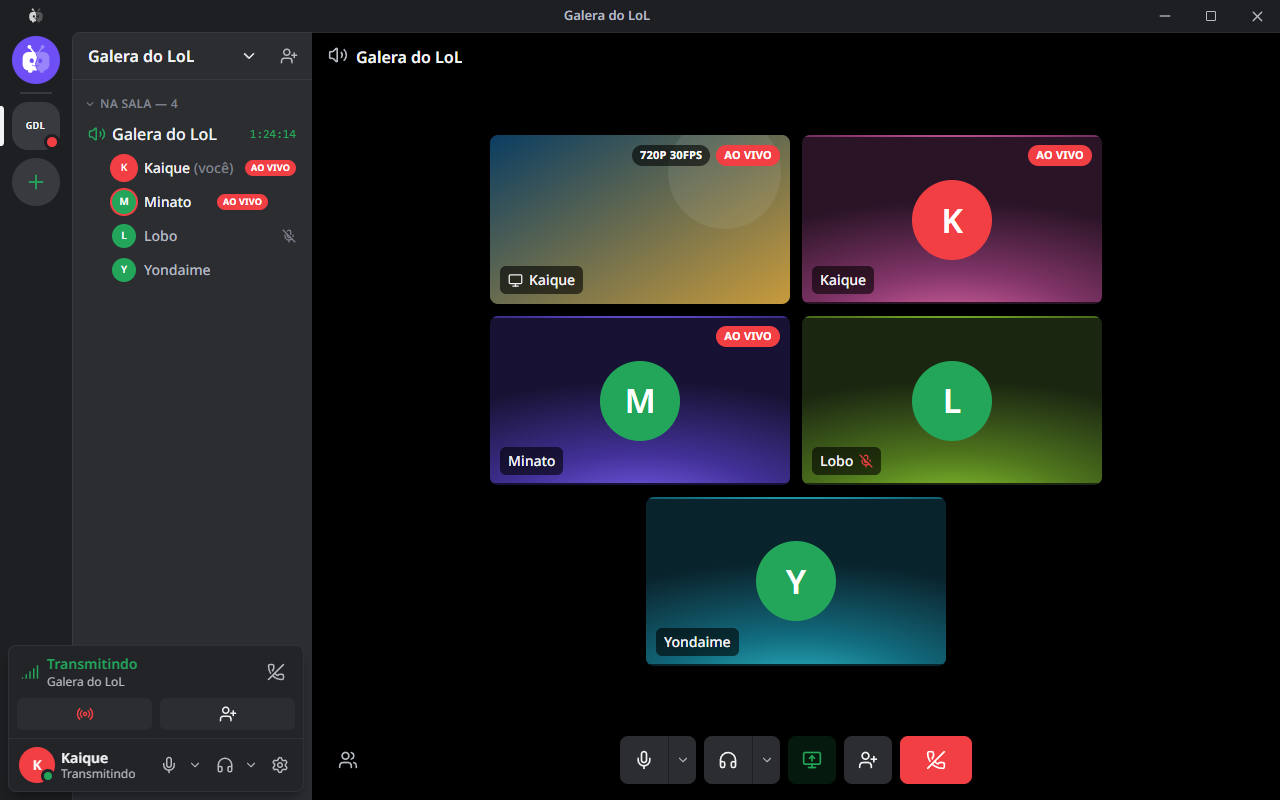
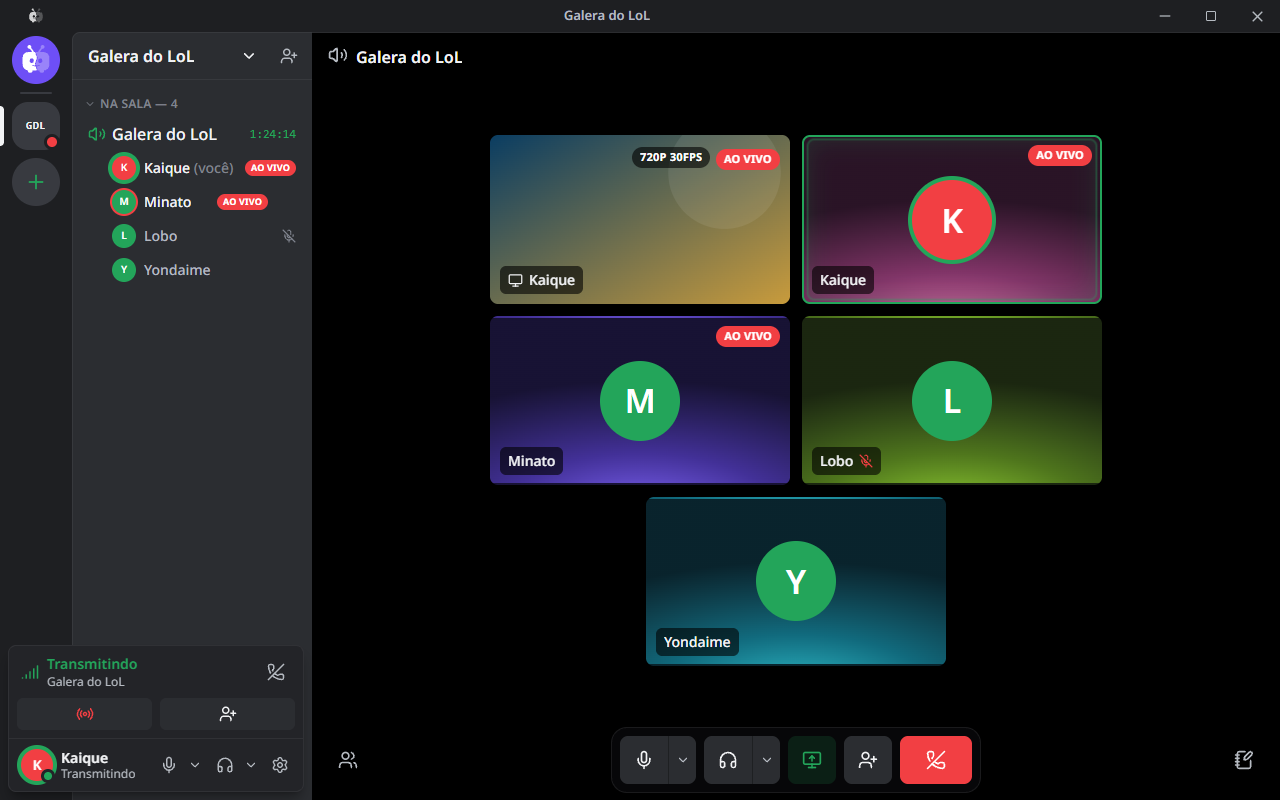
docs(docs): atualiza o README e as capturas para a versão 0.16

diff --git a/README.md b/README.md
@@ -35,7 +35,7 @@
 </p>
 
 > [!NOTE]
-> **Versão 0.11: o Fliperama.** Transmitindo um jogo com vários controles (Bomberman, jogos de luta, party games), abra o **Fliperama** no menu da sua live: até 3 amigos da call entram como P2, P3 e P4 e jogam pela rede, com controle de Xbox, com o teclado (que vira controle) ou com o mouse (que vira o analógico direito). Para jogos só de teclado e mouse, dê o **controle total** a um jogador por vez, com corte em Ctrl+Alt+F12. Também nesta versão: uma queda rápida da conexão não tira mais ninguém da sala nem derruba a voz, quem sai e volta não aparece duas vezes, e um código de sala que não existe avisa "Código inválido" em vez de criar uma sala vazia. **Na 0.11.1:** o botão do jogador chega ao jogo do host com menos de 1 ms de atraso no app (era 9 ms), um selo FLIPERAMA mostra para todos que o fliperama está aberto, e a live termina sozinha quando você fecha o programa que estava transmitindo. **Na 0.12:** dá para entrar no fliperama também pelos "..." da live de quem hospeda, quem entra é sempre o P2 em diante (o P1 é quem hospeda) e a live mostra as teclas que viram cada botão do controle; o tempo da sala conta de quando ela deixou de estar vazia (sair e voltar não zera mais); quem vê a sala do servidor de fora vê quem está mudo ou silenciado; sair da sala encerra a sua live, e o vídeo dela acompanha o quadro na faixa de participantes; o app passa a usar a Noto Sans, com os tamanhos e pesos de texto do Discord; e, com o app aberto, a versão nova aparece também quando você volta para a janela. **Na 0.13:** de fora de uma sala do servidor, você vê todo mundo que está nela, como no Discord, inclusive quem entrou só com o código, com o mudo e o silenciado de cada um. **Na 0.14:** a sala passa a distribuir o vídeo: quem assiste repassa uma parte da live para os outros, e quem transmite não precisa mandar uma cópia inteira para cada um. Quem está com a internet fraca recebe 720p30 sem atrapalhar os outros. No Fliperama, controles de PlayStation e Switch funcionam, cada jogador vê se o controle dele foi achado, e quem hospeda sem controle continua sendo o P1 no jogo (o amigo é o P2 de verdade). Também: a grade da sala cabe inteira na janela, mesmo larga e baixa. **Na 0.15:** um botão no canto da barra deixa a grade só com as lives e põe quem não transmite numa faixa embaixo, e a live que travava (a imagem parava, o som continuava, e só voltava saindo e entrando de novo) agora se recupera sozinha em cerca de 1 segundo. Achou um problema? [Abra uma issue](https://github.com/Kaique292/squadview/issues).
+> **Versão 0.11: o Fliperama.** Transmitindo um jogo com vários controles (Bomberman, jogos de luta, party games), abra o **Fliperama** no menu da sua live: até 3 amigos da call entram como P2, P3 e P4 e jogam pela rede, com controle de Xbox, com o teclado (que vira controle) ou com o mouse (que vira o analógico direito). Para jogos só de teclado e mouse, dê o **controle total** a um jogador por vez, com corte em Ctrl+Alt+F12. Também nesta versão: uma queda rápida da conexão não tira mais ninguém da sala nem derruba a voz, quem sai e volta não aparece duas vezes, e um código de sala que não existe avisa "Código inválido" em vez de criar uma sala vazia. **Na 0.11.1:** o botão do jogador chega ao jogo do host com menos de 1 ms de atraso no app (era 9 ms), um selo FLIPERAMA mostra para todos que o fliperama está aberto, e a live termina sozinha quando você fecha o programa que estava transmitindo. **Na 0.12:** dá para entrar no fliperama também pelos "..." da live de quem hospeda, quem entra é sempre o P2 em diante (o P1 é quem hospeda) e a live mostra as teclas que viram cada botão do controle; o tempo da sala conta de quando ela deixou de estar vazia (sair e voltar não zera mais); quem vê a sala do servidor de fora vê quem está mudo ou silenciado; sair da sala encerra a sua live, e o vídeo dela acompanha o quadro na faixa de participantes; o app passa a usar a Noto Sans, com os tamanhos e pesos de texto do Discord; e, com o app aberto, a versão nova aparece também quando você volta para a janela. **Na 0.13:** de fora de uma sala do servidor, você vê todo mundo que está nela, como no Discord, inclusive quem entrou só com o código, com o mudo e o silenciado de cada um. **Na 0.14:** a sala passa a distribuir o vídeo: quem assiste repassa uma parte da live para os outros, e quem transmite não precisa mandar uma cópia inteira para cada um. Quem está com a internet fraca recebe 720p30 sem atrapalhar os outros. No Fliperama, controles de PlayStation e Switch funcionam, cada jogador vê se o controle dele foi achado, e quem hospeda sem controle continua sendo o P1 no jogo (o amigo é o P2 de verdade). Também: a grade da sala cabe inteira na janela, mesmo larga e baixa. **Na 0.15:** um botão no canto da barra deixa a grade só com as lives e põe quem não transmite numa faixa embaixo, e a live que travava (a imagem parava, o som continuava, e só voltava saindo e entrando de novo) agora se recupera sozinha em cerca de 1 segundo. **Na 0.16:** a sala ganha vida: a live em foco ilumina a sala com as cores dela, quem fala tem o quadro pulsando, a entrada na sala mostra a conexão com cada amigo, e ao ficar ao vivo você vê quem começou a assistir. E chega o **modo reunião**: o que você fala vira texto numa aba ao lado da sala, transcrito no seu PC. Achou um problema? [Abra uma issue](https://github.com/Kaique292/squadview/issues).
 
 ## ✨ O que ele faz
 
@@ -48,7 +48,9 @@
 - **A sua live na sala**, como no Discord: transmitindo, a sua tela vira um quadro da sala, com a qualidade e o AO VIVO no canto, desenhados por cima da imagem sem esconder nada dela. Clique para pôr em foco, dois cliques para a tela cheia e o botão direito para parar, trocar o que transmite, mudar a qualidade ou ligar e desligar o som, sem sair do ar. Fechou o programa que estava transmitindo? A live termina sozinha. Os detalhes mostram o último minuto em gráficos (fps, bitrate, latência e encode) e o uso da GPU e da CPU em barras.
 - **Assista várias lives ao mesmo tempo**, como no Discord: cada live que você assiste vira um quadro da sala, igual ao da sua, e dá para assistir até 4 de uma vez. Quer só as lives na tela? O botão de pessoas, no canto da barra, deixa a grade só com elas e põe quem não transmite numa faixa embaixo. Clique para pôr em foco, dois cliques para a tela cheia e o botão direito (ou os "...") para o volume de até 200%, silenciar, parar de assistir e os detalhes (fps, bitrate, latência e ping em gráficos). No topo da sala aparecem quem transmite e as fotos de quem está assistindo; passe o mouse para ver a lista. Quer jogar enquanto assiste? Mande a live para uma **janelinha por cima de tudo** (picture in picture), com silenciar, volume e voltar para o app ao passar o mouse.
 - **Fliperama: o seu jogo local, online.** Transmitindo um jogo de vários controles, abra o Fliperama no menu da sua live e até 3 amigos da call entram como **P2, P3 e P4** pelo botão direito no seu nome ou pelos "..." da sua live. Cada um joga com o controle dele (Xbox, PlayStation, Switch ou genérico, e a live mostra qual foi achado), com o teclado (que vira controle, com as teclas que ele escolher e uma legenda na live) ou com o mouse preso no jogo (que vira o analógico direito). Para jogos só de teclado e mouse, você dá o **controle total** a um jogador por vez: só vale com a janela do jogo na frente, as teclas do Windows ficam bloqueadas e Ctrl+Alt+F12 corta na hora. Sem controle no seu PC, um controle parado guarda o P1 para você, e o amigo vira o P2 de verdade no jogo. Se o jogo sair da frente ou o Windows não aceitar o controle de alguém, o app avisa. Um selo **FLIPERAMA** mostra para todos que o fliperama está aberto e quantos jogam. Do botão do jogador ao controle no PC de quem hospeda, o app acrescenta menos de 1 ms. Só quem hospeda instala o driver de controle (ViGEmBus), e dá para remover quando quiser em Configurações › Fliperama ([ADR 0023](docs/adr/0023-modo-fliperama.md), [0024](docs/adr/0024-fliperama-teclado-e-mouse.md) e [0031](docs/adr/0031-controles-alem-do-xbox-e-p1-guardado.md)).
-- **Funciona atrás de CGNAT.** Se a conexão direta não fecha (internet da operadora, 4G), o app tenta por IPv6 e, se ainda não der, recebe o vídeo por alguém da sala que já está assistindo. A voz faz o mesmo: se dois amigos não se alcançam, outro membro da sala repassa a voz entre eles, assinada com uma chave que só os dois conhecem ([ADR 0020](docs/adr/0020-voz-repassada-pela-sala.md)). Tudo de graça, sem servidor no meio; há também um repassador na nuvem pronto para ligar ([ADR 0014](docs/adr/0014-conexao-em-camadas.md)).
+- **Uma sala que reage a quem está nela.** A live em foco ilumina a sala com as cores dela, em volta do quadro, como uma luz ambiente que acompanha o jogo. Quem fala tem o quadro pulsando na cor do efeito que escolheu, os botões afundam com uma mola quando você clica, e os controles ficam numa doca de vidro. Ao entrar numa sala, aparecem os amigos que já estão lá e uma barra que acompanha a conexão com cada um, de verdade. Ao ficar ao vivo, uma onda passa pela sua live, e um aviso com a foto mostra quem começou a assistir. Nada disso pesa no jogo: as animações param quando o app não está na frente, e a luz custa menos de 1% da placa de vídeo ([ADR 0034](docs/adr/0034-redesign-imersivo.md)).
+- **Modo reunião.** Abra a aba Reunião, ao lado da sala, e o que você fala vira texto, com a sua foto, o seu nome e a hora. A transcrição é feita no seu PC, com o Whisper, e o áudio não sai dele. O modelo de voz é baixado uma vez (190 MB, ou o leve, de 60 MB). Por enquanto, só a sua voz é transcrita ([ADR 0032](docs/adr/0032-modo-reuniao.md)).
+- **Funciona atrás de CGNAT.** Se a conexão direta não fecha (internet da operadora, 4G), o app tenta por IPv6 e, se ainda não der, recebe o vídeo por alguém da sala que já está assistindo. A voz faz o mesmo: se dois amigos não se alcançam, outro membro da sala repassa a voz entre eles, assinada com uma chave que só os dois conhecem ([ADR 0020](docs/adr/0020-voz-repassada-pela-sala.md)). Tudo de graça, sem servidor no meio; há também um repassador pronto para ligar, na nuvem ou num servidor próprio, com senhas que vencem sozinhas ([ADR 0014](docs/adr/0014-conexao-em-camadas.md) e [0033](docs/adr/0033-coturn-proprio-com-credencial-temporaria.md)).
 - **A sala distribui o vídeo.** Como num torrent, mas com atraso de call: a live é cortada em 4 faixas e uma de paridade, e quem assiste repassa a sua faixa para os outros. Com 4 das 5 faixas, a imagem se refaz. Se alguém sai, só quem dependia dele troca de quem recebe, sem congelar (no simulador, 370 a 390 ms no p95, com 1.000 e 5.000 pessoas). Por enquanto, a malha usa só a qualidade principal e uma estimativa do upload de cada um ([ADR 0028](docs/adr/0028-faixas-e-paridade-no-envio.md), [0029](docs/adr/0029-troca-de-pai-na-malha.md) e [0030](docs/adr/0030-malha-na-rede-da-sala.md)).
 - **Internet fraca não derruba ninguém.** Quem transmite liga um segundo encode, em 720p30, só enquanto alguém precisa, e quem está perdendo pacotes passa para ele sem a imagem congelar. Os outros continuam na qualidade principal. Por enquanto, a troca vale para quem recebe direto de quem transmite ([ADR 0026](docs/adr/0026-simulcast-com-2-camadas.md)).
 - **Chat de voz na sala.** A sala é um canal de voz como o do Discord: um quadro por pessoa, cada um com o seu fundo em degradê, borda verde (ou o efeito que você escolher, com a cor que quiser; quando duas pessoas falam lado a lado, as cores se misturam onde os efeitos se tocam) em quem fala, mudo e surdo, e clique num quadro para pôr a pessoa em foco. Volume e silenciar por pessoa (só para você), isolamento de voz contra teclado e ventilador e controle automático de ganho, para todo mundo chegar no mesmo volume. A voz também vai direto de PC para PC.
@@ -66,6 +68,7 @@
 
 **Em breve**
 
+- **Modo reunião completo:** as falas de todos da sala na mesma aba, cada um aceitando ser transcrito, e a exportação para o Discord (com e sem Nitro) e em PDF.
 - **Bot do Discord (Fase 5)** avisando no servidor quando alguém começar a transmitir.
 
 ## 📸 Telas
@@ -88,6 +91,10 @@
 
 <p align="center">
   <img src="docs/images/tela-sala.png" alt="Sala do SquadView como canal de voz, com um amigo em foco no centro e os outros numa faixa embaixo, como no Discord" width="90%">
+</p>
+
+<p align="center">
+  <img src="docs/images/tela-reuniao.png" alt="Aba Reunião aberta ao lado da sala: as falas transcritas com a foto, o nome e a hora de quem falou, e o botão para parar de transcrever" width="90%">
 </p>
 
 <p align="center">
@@ -246,7 +253,7 @@ As miniaturas das janelas usam o crate `jpeg-encoder`: _this software is based i
 
 There is **no media server**: video goes directly between PCs over QUIC, with UDP hole punching. The room itself distributes the video: each stream is split into 4 stripes plus parity, members relay their stripe to others (any 4 of the 5 rebuild the picture), and members on weak connections get a 720p30 layer. A tiny free signaling service (Cloudflare Worker) only helps peers find each other; no video goes through it.
 
-- **Status:** version 0.15.0. New: a button keeps only the live streams in the room grid (everyone else moves to a strip below), and a stream whose picture froze while the sound kept playing now recovers by itself in about a second. In 0.14: the room distributes the video as a mesh (stripes, parity and local repair when someone leaves), and viewers on weak connections get 720p30 without affecting the others. The **Arcade** mode now reads PlayStation, Switch and generic controllers, shows each player which controller was found, and keeps P1 for a host without a controller. Earlier: the **Arcade** mode turns a local multiplayer game into an online one: up to 3 friends on the call join as P2–P4 and play with their controller, keyboard (mapped to a controller) or mouse (right stick), through virtual Xbox controllers (ViGEmBus) on the host's PC; the host can hand "full control" of keyboard and mouse to one player at a time, only while the game window is in front, with Ctrl+Alt+F12 to cut it. Short signaling drops are now invisible: the app rejoins the room with the same seat, without dropping voice. One friend streams and the rest of the room watches inside the app, directly PC to PC (NVIDIA and AMD), with a live viewer count. Members behind CGNAT connect over IPv6 or get the stream relayed by someone already watching; an optional cloud TURN relay is ready to turn on. The room is a Discord-like voice channel (peer-to-peer Opus voice with noise suppression), with friends, presence, "ask to join" requests, custom speaking effects that blend where they touch, picture-in-picture, notification sounds and a system tray icon. Watch up to 4 streams at once, each one a tile in the room with its own volume, mute, fullscreen, picture-in-picture (with hover controls) and stats. Video is drawn underneath the interface with DirectComposition, so badges, menus and animations blend over the stream. When two members can't reach each other (CGNAT), a third member relays their voice, signed end to end so the relay can't forge it. Rooms have no member limit. Servers with persistent voice rooms (showing who is in each room, with members joining directly), clickable invite links, roles and cropped icons; private peer-to-peer messages with files, emoji reactions and replies (no server in between, history kept locally). Discord login, invite links, Rich Presence and a silent Discord-style installer. Your own stream shows up as a tile in the room (Discord-style), with a right-click menu to stop, switch source, change quality or toggle audio without going offline, and a details view with live charts. The mesh still uses only the main layer and an estimated upload per member. See the [roadmap](docs/roadmap.md).
+- **Status:** version 0.16.0. New: the room comes alive. The focused stream lights up the room with its colors (an ambient light drawn on the GPU that costs under 1% of it), whoever is talking gets a pulsing tile, joining a room shows the real connection to each friend, and going live shows a wave on your tile plus a notice, with their photo, for each friend who starts watching; all continuous effects pause while the app is not in front. Also new: **meeting mode**, which transcribes what you say into a tab next to the room, locally with Whisper (the audio never leaves your PC). In 0.15: a button keeps only the live streams in the room grid (everyone else moves to a strip below), and a stream whose picture froze while the sound kept playing now recovers by itself in about a second. In 0.14: the room distributes the video as a mesh (stripes, parity and local repair when someone leaves), and viewers on weak connections get 720p30 without affecting the others. The **Arcade** mode now reads PlayStation, Switch and generic controllers, shows each player which controller was found, and keeps P1 for a host without a controller. Earlier: the **Arcade** mode turns a local multiplayer game into an online one: up to 3 friends on the call join as P2–P4 and play with their controller, keyboard (mapped to a controller) or mouse (right stick), through virtual Xbox controllers (ViGEmBus) on the host's PC; the host can hand "full control" of keyboard and mouse to one player at a time, only while the game window is in front, with Ctrl+Alt+F12 to cut it. Short signaling drops are now invisible: the app rejoins the room with the same seat, without dropping voice. One friend streams and the rest of the room watches inside the app, directly PC to PC (NVIDIA and AMD), with a live viewer count. Members behind CGNAT connect over IPv6 or get the stream relayed by someone already watching; an optional cloud TURN relay is ready to turn on. The room is a Discord-like voice channel (peer-to-peer Opus voice with noise suppression), with friends, presence, "ask to join" requests, custom speaking effects that blend where they touch, picture-in-picture, notification sounds and a system tray icon. Watch up to 4 streams at once, each one a tile in the room with its own volume, mute, fullscreen, picture-in-picture (with hover controls) and stats. Video is drawn underneath the interface with DirectComposition, so badges, menus and animations blend over the stream. When two members can't reach each other (CGNAT), a third member relays their voice, signed end to end so the relay can't forge it. Rooms have no member limit. Servers with persistent voice rooms (showing who is in each room, with members joining directly), clickable invite links, roles and cropped icons; private peer-to-peer messages with files, emoji reactions and replies (no server in between, history kept locally). Discord login, invite links, Rich Presence and a silent Discord-style installer. Your own stream shows up as a tile in the room (Discord-style), with a right-click menu to stop, switch source, change quality or toggle audio without going offline, and a details view with live charts. The mesh still uses only the main layer and an estimated upload per member. See the [roadmap](docs/roadmap.md).
 - **Stack:** Rust core, Tauri v2, React 19 + Tailwind v4, QUIC (quinn) peer-to-peer mesh, Cloudflare Worker for signaling.
 - **Contributing:** PRs target the `dev` branch and use [Conventional Commits](https://www.conventionalcommits.org/). Docs are in Portuguese; issues and PRs in English are welcome too.
 - **Support:** [Buy Me a Coffee](https://buymeacoffee.com/kaiqueamaral).

diff --git a/docs/desenvolvimento.md b/docs/desenvolvimento.md
@@ -119,7 +119,7 @@ docs/                 documentação, ADRs, design e imagens
 
 ## Capturas do README e imagem de prévia do site
 
-- **Capturas das telas:** com o `yarn dev` rodando, abra `http://localhost:1420/#demo=sala` (ou `#demo=transmitir`, `#demo=config`, `#demo=amigos`, `#demo=conversa`, `#demo=servidor`, `#demo=transmitindo`, `#demo=detalhes`, `#demo=assistindo`, `#demo=fliperama`). O modo de demonstração (`apps/desktop/src/dev/demo.ts`, só no dev) preenche a interface com uma sala de exemplo. Para gerar o PNG sem abrir janela:
+- **Capturas das telas:** com o `yarn dev` rodando, abra `http://localhost:1420/#demo=sala` (ou `#demo=transmitir`, `#demo=config`, `#demo=amigos`, `#demo=conversa`, `#demo=servidor`, `#demo=transmitindo`, `#demo=detalhes`, `#demo=assistindo`, `#demo=fliperama`, `#demo=reuniao`, `#demo=entrando`). O modo de demonstração (`apps/desktop/src/dev/demo.ts`, só no dev) preenche a interface com uma sala de exemplo. Para gerar o PNG sem abrir janela:
 
   ```powershell
   & "C:\Program Files (x86)\Microsoft\Edge\Application\msedge.exe" --headless=new --hide-scrollbars --window-size=1280,800 --virtual-time-budget=6000 --screenshot=docs\images\tela-sala.png "http://localhost:1420/#demo=sala"
